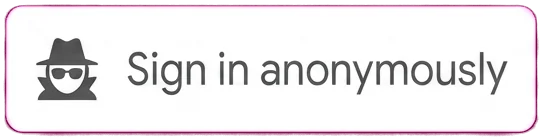
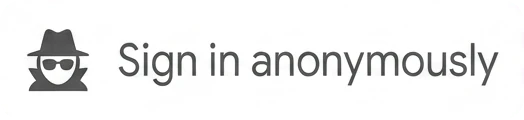
Sign-in buttons smaller and cut clean; character stat window shows ATK, DEF, HIT, FLEE
Claude-Session: https://claude.ai/code/session_01W4v7cyzS6Fr8aMVaGgywWE

Changed region(s): [[0.0, 0.025, 1.0, 0.975]]

diff --git a/index.html b/index.html
@@ -938,14 +938,14 @@
                     <span>I have read and accept the <button type="button" onclick="showTermsModal()" class="underline font-bold text-amber-300 hover:text-amber-200 cursor-pointer">Terms and Conditions</button>.</span>
                 </div>
                 <div class="flex flex-col gap-1">
-                    <button id="signin-gmail-btn" onclick="signInWithGmail()" disabled class="w-full bg-transparent border-0 p-0 cursor-pointer hover:brightness-110 disabled:opacity-40 disabled:cursor-not-allowed disabled:hover:brightness-100">
-                        <img src="assets/cha/page/gmail_signin_q85.webp" alt="Sign in with Gmail" class="block w-full h-auto">
+                    <button id="signin-gmail-btn" onclick="signInWithGmail()" disabled class="w-full flex justify-center bg-transparent border-0 p-0 cursor-pointer hover:brightness-110 disabled:opacity-40 disabled:cursor-not-allowed disabled:hover:brightness-100">
+                        <img src="assets/cha/page/gmail_signin_q85.webp" alt="Sign in with Gmail" style="width:250px; max-width:100%; height:auto;" class="block">
                     </button>
                     <span class="text-[11px] text-amber-400 font-bold">* Recommended</span>
                 </div>
                 <div class="flex flex-col gap-1">
-                    <button id="signin-anon-btn" onclick="signInAnonymous()" disabled class="w-full bg-transparent border-0 p-0 cursor-pointer hover:brightness-110 disabled:opacity-40 disabled:cursor-not-allowed disabled:hover:brightness-100">
-                        <img src="assets/cha/page/anonymous_signin_q85.webp" alt="Sign in anonymously" class="block w-full h-auto">
+                    <button id="signin-anon-btn" onclick="signInAnonymous()" disabled class="w-full flex justify-center bg-transparent border-0 p-0 cursor-pointer hover:brightness-110 disabled:opacity-40 disabled:cursor-not-allowed disabled:hover:brightness-100">
+                        <img src="assets/cha/page/anonymous_signin_q85.webp" alt="Sign in anonymously" style="width:250px; max-width:100%; height:auto;" class="block">
                     </button>
                     <span class="text-[11px] text-slate-400">You can bind an email later in the Settings menu.</span>
                 </div>
@@ -1782,7 +1782,7 @@
     <script src="js/hero-body.js?v=20261112c"></script>
     <script src="js/combat.js?v=20261113c"></script>
     <script src="js/crit-fx.js?v=20261110e"></script>
-    <script src="js/ui.js?v=20261114af"></script>
+    <script src="js/ui.js?v=20261114ag"></script>
     <script src="js/market.js?v=20261113c"></script>
     <script src="js/guide-intro.js?v=20261111a"></script>
     <script src="js/guide-upgrade.js?v=20261113e"></script>

diff --git a/js/ui.js b/js/ui.js
@@ -4160,6 +4160,14 @@ function renderCreateStats() {
             + `<span class="flex items-center gap-2"><span class="font-bold text-slate-100">${val}${add ? ` <span class="text-amber-300">+${add}</span>` : ''}</span>`
             + `<button type="button" onclick="addStat('${k}')"${full ? ' disabled' : ''} class="w-7 h-7 rounded-lg bg-amber-600 text-slate-950 font-black cursor-pointer disabled:opacity-30 disabled:cursor-not-allowed">+</button></span></div>`;
     }).join('');
+    // Derived combat numbers from the current gear and stats
+    const d = typeof getDerivedStats === 'function' ? getDerivedStats() : null;
+    if (d) {
+        const cells = [['ATK', d.atk], ['DEF', d.def], ['HIT', d.hit], ['FLEE', d.flee]];
+        rows.innerHTML += `<div class="mt-2 pt-2 border-t border-slate-700 grid grid-cols-2 gap-x-3 gap-y-1">`
+            + cells.map(([k, v]) => `<div class="flex items-center justify-between text-xs"><span class="text-slate-400 font-bold">${k}</span><span class="font-bold text-slate-100">${v}</span></div>`).join('')
+            + `</div>`;
+    }
 }
 
 // Top bar: who is logged in, and the Link Gmail button for guests
